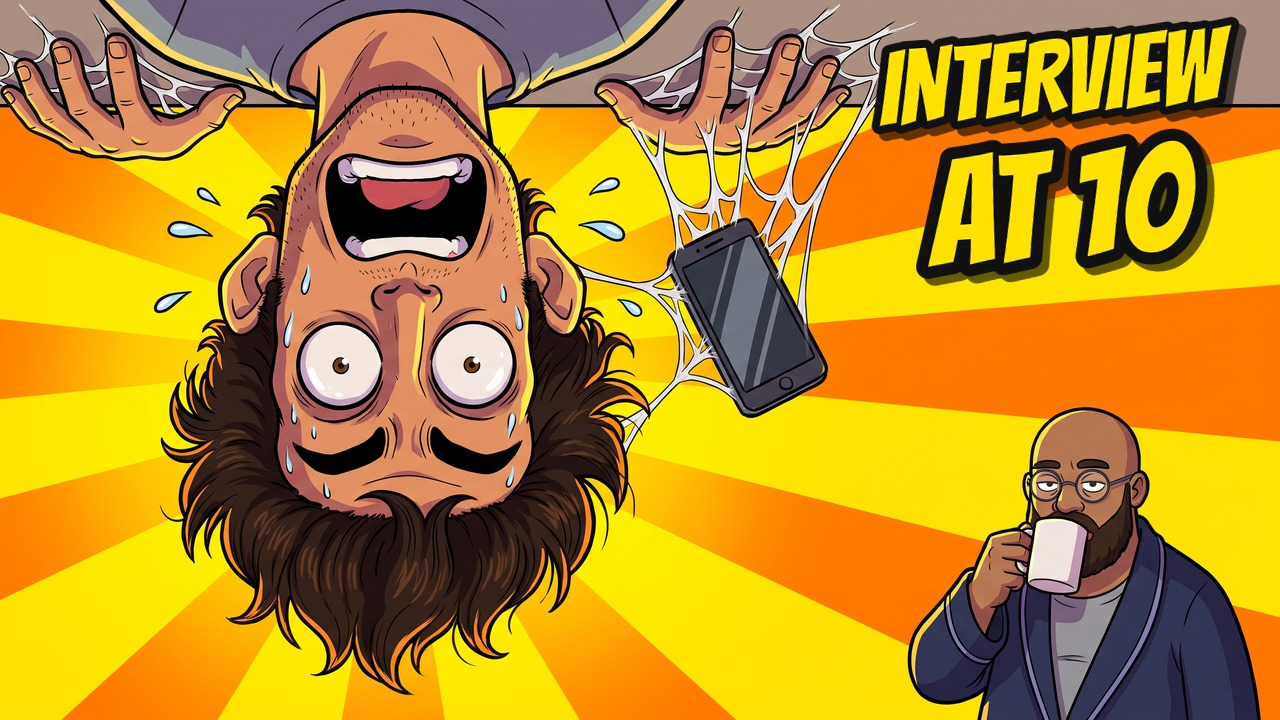
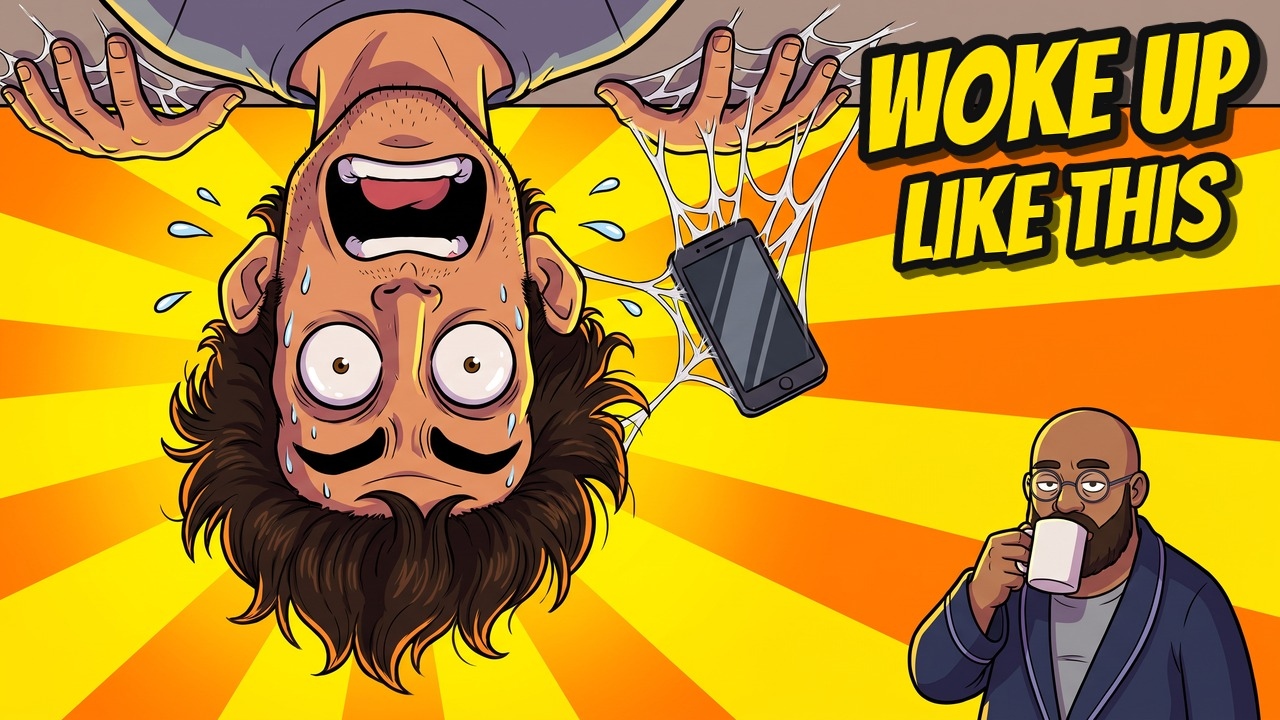
Episode 1: lead with 'Spider-Man for a day', interview second; thumbnail captions WOKE UP LIKE THIS / DAY ONE
Claude-Session: https://claude.ai/code/session_01TNc2K4iQhF6FRvCx2VQdik

Changed region(s): [[0.6562, 0.0306, 1.0, 0.3972]]

diff --git a/channel/ep01_spiderman_upload.md b/channel/ep01_spiderman_upload.md
@@ -8,23 +8,25 @@
 
 ## 1. Название: 5 вариантов (не длиннее 60 знаков)
 
+Главное в серии: ты на один день стал Человеком-пауком. Собеседование только фон, поэтому в названии его нет.
+
 | # | Название | Знаков | Чем цепляет |
 |---|---|---|---|
-| **1 (рекомендую)** | **What If You Woke Up as SPIDER-MAN on Job Interview Day?** | 55 | Формат серии + бытовая ставка. Зритель сразу видит конфликт: силы против собеседования. |
-| 2 | What If You Woke Up as SPIDER-MAN? | 34 | Чистый формат серии, максимум поиска, но без интриги. |
-| 3 | You Woke Up as Spider-Man. The Interview Is at 10. | 50 | Обращение на «you», как у рассказчика; таймер создаёт напряжение. |
-| 4 | You Stopped a Bus as Spider-Man. The Driver Got Credit. | 55 | Выдаёт кульминацию, но несправедливость цепляет. Хорош для A/B-теста. |
-| 5 | Spider-Man, But You Have a Job Interview at 10 | 46 | Формат «X, but…», популярный у пародий. |
+| **1 (рекомендую)** | **What If You Woke Up as SPIDER-MAN for a Day?** | 44 | Формат серии плюс «на один день»: сразу понятна ставка и что это комедия про обычный день. |
+| 2 | What If You Woke Up as SPIDER-MAN? | 34 | Чистый формат серии, максимум поиска. |
+| 3 | You Woke Up as Spider-Man. Just for One Day. | 44 | Обращение на «you», как у рассказчика. |
+| 4 | Spider-Man for One Day. Nobody Can Know. | 40 | Правило дня как интрига. |
+| 5 | What If You Woke Up as SPIDER-MAN on Job Interview Day? | 55 | Запасной, если захочешь вывести собеседование вперёд. |
 
-**Рекомендация: №1.** Начинается с поискового «What If You Woke Up as SPIDER-MAN» (совпадает с названием канала), а хвост «on Job Interview Day» даёт любопытство. Все следующие серии называть по той же схеме: «What If You Woke Up as HULK on Moving Day?» и т. п.
+**Рекомендация: №1.** Начинается с поискового «What If You Woke Up as SPIDER-MAN» (совпадает с названием канала). Следующие серии по той же схеме: «What If You Woke Up as HULK for a Day?».
 
 ## 2. Описание
 
 Первые две строки видны под видео без раскрытия, поэтому в них крючок.
 
 ```
-Today you woke up as Spider-Man. You know this because you're on the ceiling.
-At 10 you have your first job interview in a year. Rule one: nobody can know.
+Today you woke up as Spider-Man. Just for one day. You know this because you're on the ceiling.
+Rule one: nobody can know. Small problem: you also have a job interview at 10.
 
 Your phone is stuck to the ceiling for the rest of the day. Your spider-sense warns you about a fly. Your roommate Dave ties your tie, packs you a homemade mask "just in case", and is not surprised. Nothing surprises Dave.
 Then, at 9:58, standing at the office door, you see a bus rolling down the hill. Nobody is driving it.
@@ -94,35 +96,10 @@ Who should you wake up as after that? Wrong answers only.
 
 **Вариант Б (лучше, при следующем рендере):** продлить финальную карточку до 12-15 секунд (Дэйв отпивает из кружки в петле, затемнённый фон) и разместить элементы на ней: «Подписаться» слева, «Конкретное видео» справа, «Плейлист All Episodes» снизу по центру. Тогда тизер с зелёной рукой не перекрывается ничем.
 
-## 6. Обложка: 3 концепции
+## 6. Обложка
 
-Общие правила: 1280×720, стиль серии (рисованные 2D-мультики 90-х, толстые контуры, тёплый утренний свет). Без логотипов и фирменных эмблем: костюм героя в серии самодельный (красное худи, плавательные очки), на обложках его можно показывать, но без нарисованного паука-эмблемы крупно. Текст делать в редакторе (Photopea/Canva), не в генерации: шрифт Bangers из `assets/fonts`, жёлтый #FFE100, толстая чёрная обводка, в правой трети кадра (в правом нижнем углу YouTube ставит длительность, туда текст не ставить).
+Готовые файлы: `channel/art/thumb_ep01_A.jpg` (главная), `thumb_ep01_B.jpg` и `thumb_ep01_C.jpg` для теста Test & Compare.
 
-### A. «Потолок и Дэйв» (рекомендую)
-- **Композиция:** слева 55 % кадра: герой в пижаме (серая футболка, синие клетчатые штаны) висит на потолке вверх ногами, ладони и ступни прилипли, лицо крупно, глаза огромные, рот открыт в ужасе. Рядом с ним на потолке прилип смартфон. Справа внизу: Дэйв по пояс, синий халат, белая кружка у губ, смотрит прямо в камеру с полным равнодушием.
-- **Эмоция:** паника против полного спокойствия. Этот контраст и есть бренд серии, а Дэйв на каждой обложке делает серию узнаваемой в ленте.
-- **Текст (3 слова):** `INTERVIEW AT 10`. Ставка понятна без названия. Запасной вариант короче: `DAY 1`.
-- **Почему лучше:** нет костюма и эмблем, значит нет риска по товарным знакам; читается на маленьком экране (два лица, одна поза); совпадает с первыми секундами видео, поэтому зритель получает то, что обещала обложка.
-
-### B. «Никто не за рулём»
-- **Композиция:** жёлтый школьный автобус несётся с горы на зрителя (вид снизу, широкоугольник), на крыше герой в красном худи и синих плавательных очках, в одной руке паутина-трос, в другой целый стакан кофе. В правом нижнем углу крошечная старушка в фиолетовой шляпе, приклеенная паутиной к фонарю, с недовольным лицом.
-- **Эмоция:** отчаянная сосредоточенность героя и злое лицо старушки.
-- **Текст:** `NOBODY'S DRIVING`
-- Хорош для A/B-теста против A: больше экшена, но меньше Дэйва.
-
-### C. «Не тот герой»
-- **Композиция:** первая полоса газеты «THE DAILY HILL» на весь кадр с заголовком «DRIVER STOPS RUNAWAY BUS» и фото довольного водителя с сэндвичем. Из-за газеты сбоку выглядывает герой с синяком и пакетом замороженного горошка на плече, лицо: обида.
-- **Эмоция:** несправедливость.
-- **Текст:** `WRONG HERO`
-
-### Промпт для обложки A (вставить в генератор изображений, 16:9, 1280×720)
-
-```
-YouTube thumbnail, 16:9, 1280x720. Hand-drawn 2D cartoon in a 1990s TV animation style: thick clean black ink outlines, flat cel shading with soft gradients, warm morning sunlight, saturated but cozy colors, slight paper grain.
-Scene: a small messy city-apartment bedroom with blue walls, seen from a low angle. On the LEFT half of the frame, a skinny young man in his late 20s with messy dark curly hair, light-brown skin, stubble and tired eyes with dark circles, wearing a grey t-shirt and blue plaid pajama pants, is stuck UPSIDE DOWN to the ceiling, palms and bare feet flat on the ceiling, his face large and close to camera, eyes huge and terrified, mouth open in a silent scream. A smartphone is stuck to the ceiling right next to his hand with a small burst of white sticky web.
-On the RIGHT side, lower half: his roommate Dave, a big calm bald man with a large dark full beard and small round wire glasses, wearing a navy-blue bathrobe, holding a plain white coffee mug to his lips, looking straight at the viewer, completely unbothered, half-lidded eyes.
-Strong contrast between panic (left) and calm (right). Clear silhouettes, high readability at small size, simple background, empty space in the upper-right third for a title.
-No text, no letters, no logos, no emblems, no superhero costume, no spider symbol, no watermark.
-```
-
-После генерации: добавить текст `INTERVIEW AT 10` в верхнюю правую треть (Bangers, жёлтый, чёрная обводка 10-12 px), лёгкую тёмную виньетку по краям, проверить читаемость, уменьшив до 168×94.
+- **A:** огромное перевёрнутое лицо героя в панике на жёлто-оранжевых лучах, Дэйв с кружкой в углу. Надпись `WOKE UP LIKE THIS`.
+- **B:** автобус без водителя, герой в красном худи едет за ним на паутине с кофе. Надпись `DAY ONE.`
+- **C:** Дэйв крупно пьёт кофе, за ним герой кричит на потолке. Надпись `NORMAL MORNING`.

diff --git a/channel/ep01_shorts.md b/channel/ep01_shorts.md
@@ -30,7 +30,7 @@ You Woke Up as Spider-Man. You're on the Ceiling.
 Описание:
 ```
 Day one with spider powers. Your phone is on the ceiling. Your spider-sense is warning you about a fly.
-Full episode: "What If You Woke Up as SPIDER-MAN on Job Interview Day?" (linked above)
+Full episode: "What If You Woke Up as SPIDER-MAN for a Day?" (linked above)
 
 #shorts #spiderman #whatifyouwokeupas #animation #superheroparody
 ```
